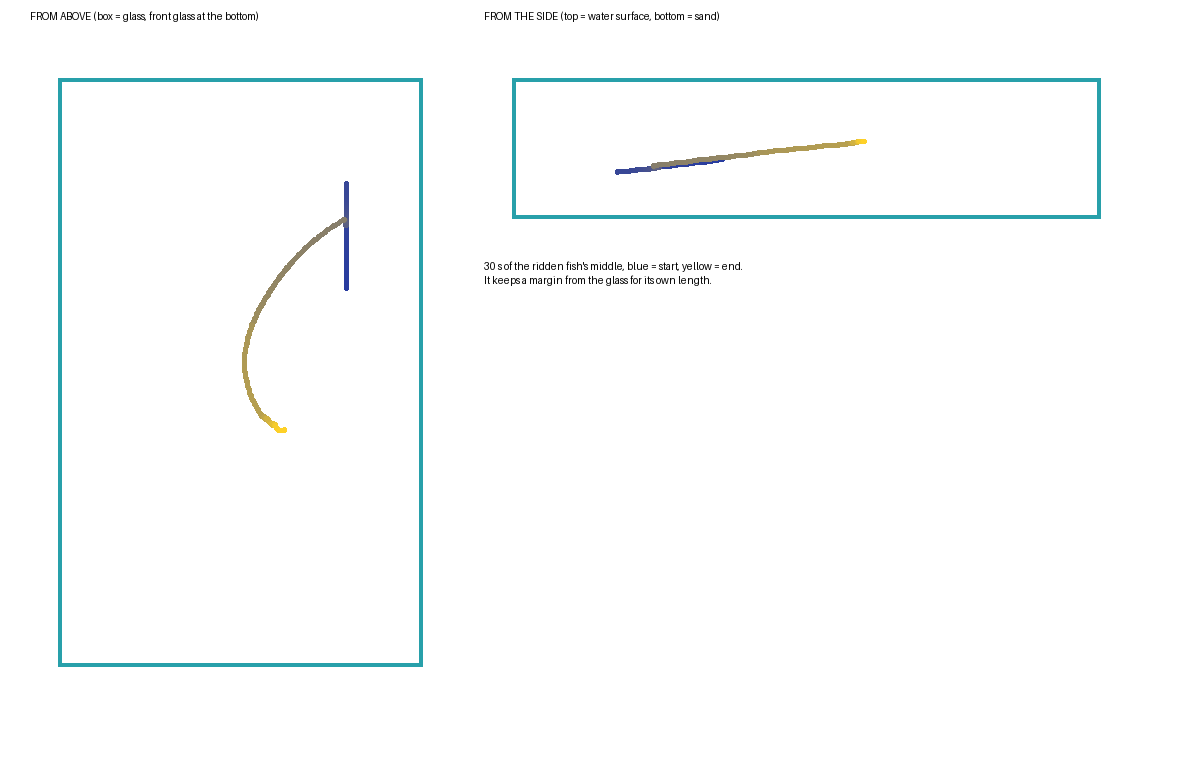
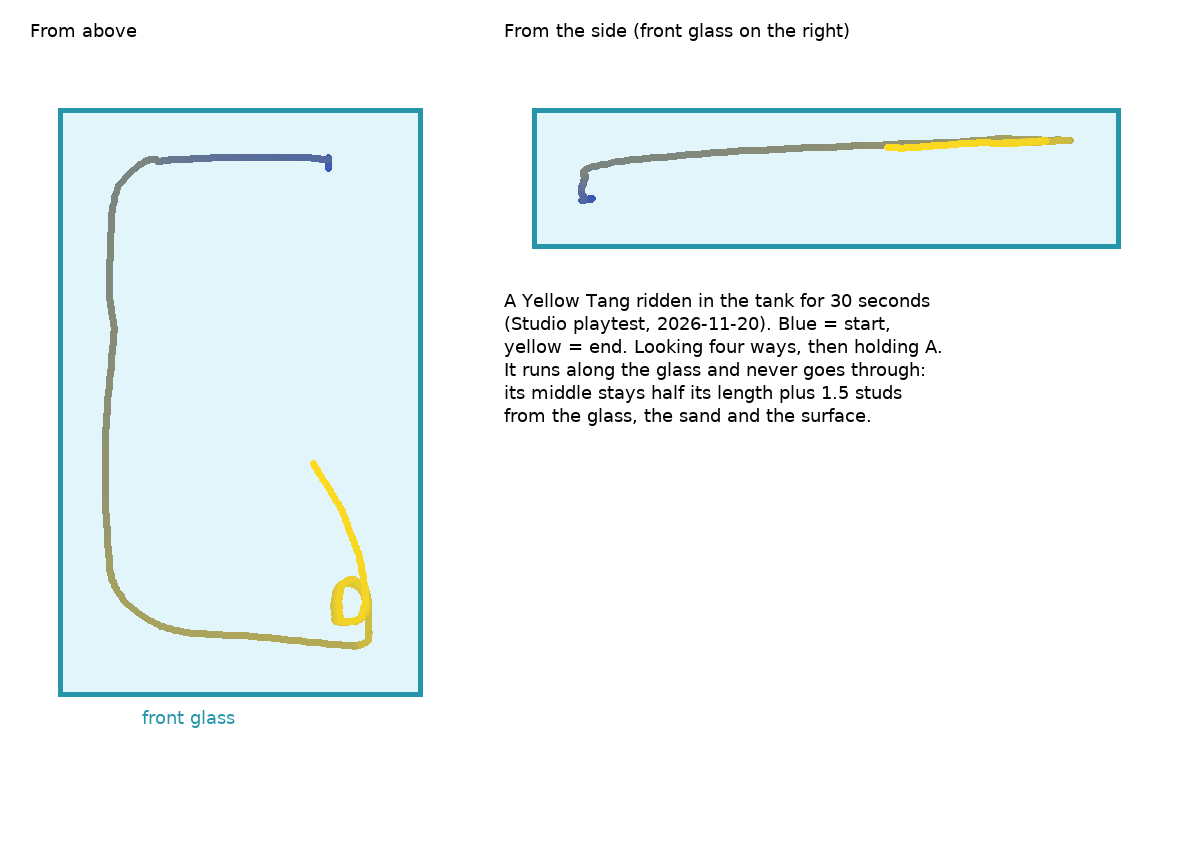
Tank riding: ride your tank's fish inside the tank, E prompt on the glass, no green pad (task k1)

diff --git a/docs/design/aquarium.md b/docs/design/aquarium.md
@@ -13,14 +13,16 @@ The code: `src/server/Services/AquariumService.luau`, `src/client/Controllers/Aq
 2. **The catch comes home in your hands.** What you tamed on a dive is still carried at the dock (it was only
    counted before), a failed dive's too. The seven slots stay filled until you put the fish in, and they stay with
    you through the next dive if you don't (you can carry seven).
-3. **You wake at your own tank.** With fish in hand, a dive that ends puts you on the pad in front of your tank,
-   not at the dock's spawn.
+3. **You wake at your own tank.** With fish in hand, a dive that ends puts you on the floor just in front of your
+   tank's glass, facing it, not at the dock's spawn. (Until 2026-11-20 there was a green pad there; Hugo had it
+   taken out, task k1.)
 4. **You put them in, one at a time** (Hugo, 2026-11-18: "make the player actually be able to place down fishes in
-   aquarium once back"). At your tank a prompt, "Put in tank" (hold E a quarter second, or tap it), puts in the fish
+   aquarium once back"). Walk up to your tank's front glass: a prompt on the glass, "Put in tank" (hold E a quarter
+   second, or tap it; since 2026-11-20 on the glass itself, the green pad is gone), puts in the fish
    with the white ring in the slots: the newest, or the one you clicked. While the prompt shows, a click on a caught
    slot puts that one in at once. The view turns to the tank and a line rises over it: the fish's name and what it
-   adds a second. The server checks it: on the dock, at your own tank (on the plot, or within 28 studs of its front
-   pad), and that slot still holds that fish.
+   adds a second. The server checks it: on the dock, at your own tank (on the plot, or near its water: the popup's
+   reach), and that slot still holds that fish.
 5. **They swim there and earn.** Up to seven are *equipped*: they earn coins every second and swim in the tank.
    The coin row on the HUD shows itself. A new fish takes a free place; with seven equipped it is *stored* (up to
    60 in all) and earns nothing until you equip it (since 2026-11-19, the popup below; before that the best seven
@@ -28,6 +30,41 @@ The code: `src/server/Services/AquariumService.luau`, `src/client/Controllers/Aq
 6. **The tank's popup** (Hugo, 2026-11-19: "you should be able to click on the plot from nearby, then get a little
    popup where you can equip the best fish instantly, unequip certain fishes and see how much money they produce
    and their rarities and special traits"). See below.
+7. **You can ride them, in the tank** (Hugo, 2026-11-20: "make fishes in the tank rideable (in the tank)"). See
+   "Riding in the tank" below.
+
+## Riding in the tank
+Practice, nothing at stake (task k1, `Config.TankRide`, `TankRideService`, `TankRideController`).
+- **Getting on:** with empty hands, the prompt on your tank's glass says "Ride a fish" and names the fish nearest you.
+  E puts you on it, inside the tank. Only **your own** tank's fish (owner-only: the server checks the plot is yours).
+- **Riding:** the dive's steering: always forward, A and D turn (the view turns with you), and the fish comes round to
+  where the camera looks, up and down too. 16 studs a second. Against the glass it slides along it; it can't leave
+  the water, through the glass, the sand or the surface: its middle stays half its length plus 1.5 studs inside.
+  The rider's machine moves it, and every player sees it (the server gives the rider its physics). The server pulls
+  it back if it is ever more than 6 studs out.
+- **Safe:** you stay on the dock as far as the game knows (state `Dock`): no Oxygen used, no fail or throw-off, no
+  taming, no catch, no coins. The fish stays in the tank and keeps earning.
+- **The fish while ridden:** out of its lap, and drawn at least 9 and at most 18 studs long (so there is a back to sit
+  on and it can still turn). Getting off puts it back in its lap at its own size.
+- **Getting off:** SPACE (a pad's A, the button on a phone; "SPACE TO GET OFF" shows at the bottom). You land on the
+  floor in front of the glass. A change to the tank while you ride (the popup's equip) also puts you off.
+- **Checked in a Studio playtest by script** (2026-11-20): a Yellow Tang put in by the prompt, then ridden 30 seconds
+  (looking four ways, holding A): it stayed inside every wall, the state stayed `Dock`, Oxygen 100, off in front of
+  the tank. The path: ![the ridden fish's path](../attachments/tank-ride-path.png)
+  **Not seen:** Studio's window is off-screen and its pictures are frozen, so no gif yet; the feel, the rider's pose
+  and the view are unplayed.
+
+| Number (`Config.TankRide`) | Now | What |
+|---|---|---|
+| `On` | 1 | 0: tank fish can't be ridden |
+| `Speed` | 16 | Studs a second, forward |
+| `Turn` | 110 | Degrees a second A and D turn |
+| `Follow` | 4 | How quickly the fish comes round to the camera's look |
+| `Level` | 14 | Degrees: the camera's usual look down counts as level |
+| `Climb` | 40 | Steepest climb or dive, degrees |
+| `Margin` | 1.5 | Studs kept from the glass, sand and surface |
+| `Least`, `Most` | 9, 18 | How long a ridden fish is drawn |
+| `Slack` | 6 | Studs out before the server pulls it back |
 
 ## The tank's popup
 Built 2026-11-19 (task p1). The code: `src/client/UI/TankPanel.luau`, the server's half in `AquariumService`.
@@ -125,7 +162,11 @@ In the user's Studio on grey-box 15, by script.
   `"PutAll"`; Ride `"TankDenied"`, reason. Player attributes `TankList` (JSON rows: key, id, size, variant, 1 if
   equipped), `TankEarning` (the most equipped), `Hands` (JSON rows: id, size, variant, as carried). `Tank` (the best
   12, for the sub's "Ride with") is as before. `AquariumService.tankOf` entries gained `Key` and `On`.
-- **The map's names it leans on:** `Dock.Plots.PlotN` with `TankWater`, `Pad`, `CollectPad`, `SignBoard`. A plot
+- **The map's names it leans on:** `Dock.Plots.PlotN` with `TankWater`, `Pad`, `SignBoard` (`CollectPad` went on
+  2026-11-20: the plot's front is the way from `TankWater` to `Pad`, `AquariumService.frontOf`). A plot
   gets an `Owner` attribute (the user id) and a `TankFish` folder while it is someone's.
-- **Tank fish** carry the tag `TankFish`. They are not in `Workspace.Fish`, so tags, the lock and the ride never
-  see them.
+- **Tank fish** carry the tag `TankFish`. They are not in `Workspace.Fish`, so tags, the lock and the dive's ride never
+  see them. A tank ride (2026-11-20): Action `"TankRide"`, `"On"`, fish | `"Off"`; Ride `"TankMounted"`, fish, box
+  CFrame, half size | `"TankDismounted"` | `"Denied"`, `"TankRide"`, `"Far"`/`"Empty"`. The rider's player attribute
+  `TankRide` is true (AnimController poses them astride); the ridden fish loses its `TankFish` tag and carries
+  `TankRider` (the user id).

diff --git a/docs/Handoff.md b/docs/Handoff.md
@@ -3,6 +3,23 @@
 What each push changed, so whoever pulls next knows where things stand. Newest first. Every hand-made push gets an entry
 here; the Obsidian Git plugin's own "vault sync" commits don't need one.
 
+## 2026-11-20 · No green pad; ride your tank's fish inside the tank (NULLROOM task k1, Hugo's PC)
+**State:** in the game code; checked in a Studio playtest by script (placing, getting on, 30 s of riding, getting off);
+**not seen by eye**: Studio's window is off-screen, its pictures frozen, so no gif. All in
+[the aquarium](design/aquarium.md), "Riding in the tank".
+- **The green pad is gone** (`CollectPad`, `CollectRim`): out of `tools/map/hub_kit.py`, the hub regenerated
+  (`hub.json`, `95`-`97_hub.luau`; only those 16 parts changed) and deleted from the open place (not saved).
+  The E prompt now sits on your tank's front glass (`AquariumController`); you wake with a catch on the floor in
+  front of the glass (`AquariumService.frontOf`). Every rule of placing is unchanged.
+- **Riding in the tank:** with empty hands the same prompt says "Ride a fish": you ride the fish nearest you round the
+  tank with the dive's steering, SPACE gets off. Owner-only. No Oxygen, fail, taming or catch (you stay `Dock`).
+  New `TankRideService` (server), `TankRideController` (client), `Config.TankRide`. `AnimController` poses a tank
+  rider astride; `RideController` leaves their PlatformStand alone.
+- For the shop-style restyle (mission 2362bee3, task s3): restyle the prompt on the glass (`PlaceFish`, on the
+  `TankFront` attachment in `TankWater`), there is no pad.
+- `tools/studio/hub_walk.luau` and `tools/studio/tank_panel_check.py` still name `CollectPad` (not mine to change);
+  they need the front spot instead.
+
 ## 2026-11-20 · Hold a fish from your hands over your head in the hub (NULLROOM task f1, Hugo's PC)
 **State:** in the game code; the server side checked in a Studio playtest by script; **not seen**: Studio's window had
 stopped painting (every capture the same old frame), so no pictures and the arm pose is untuned. All in
